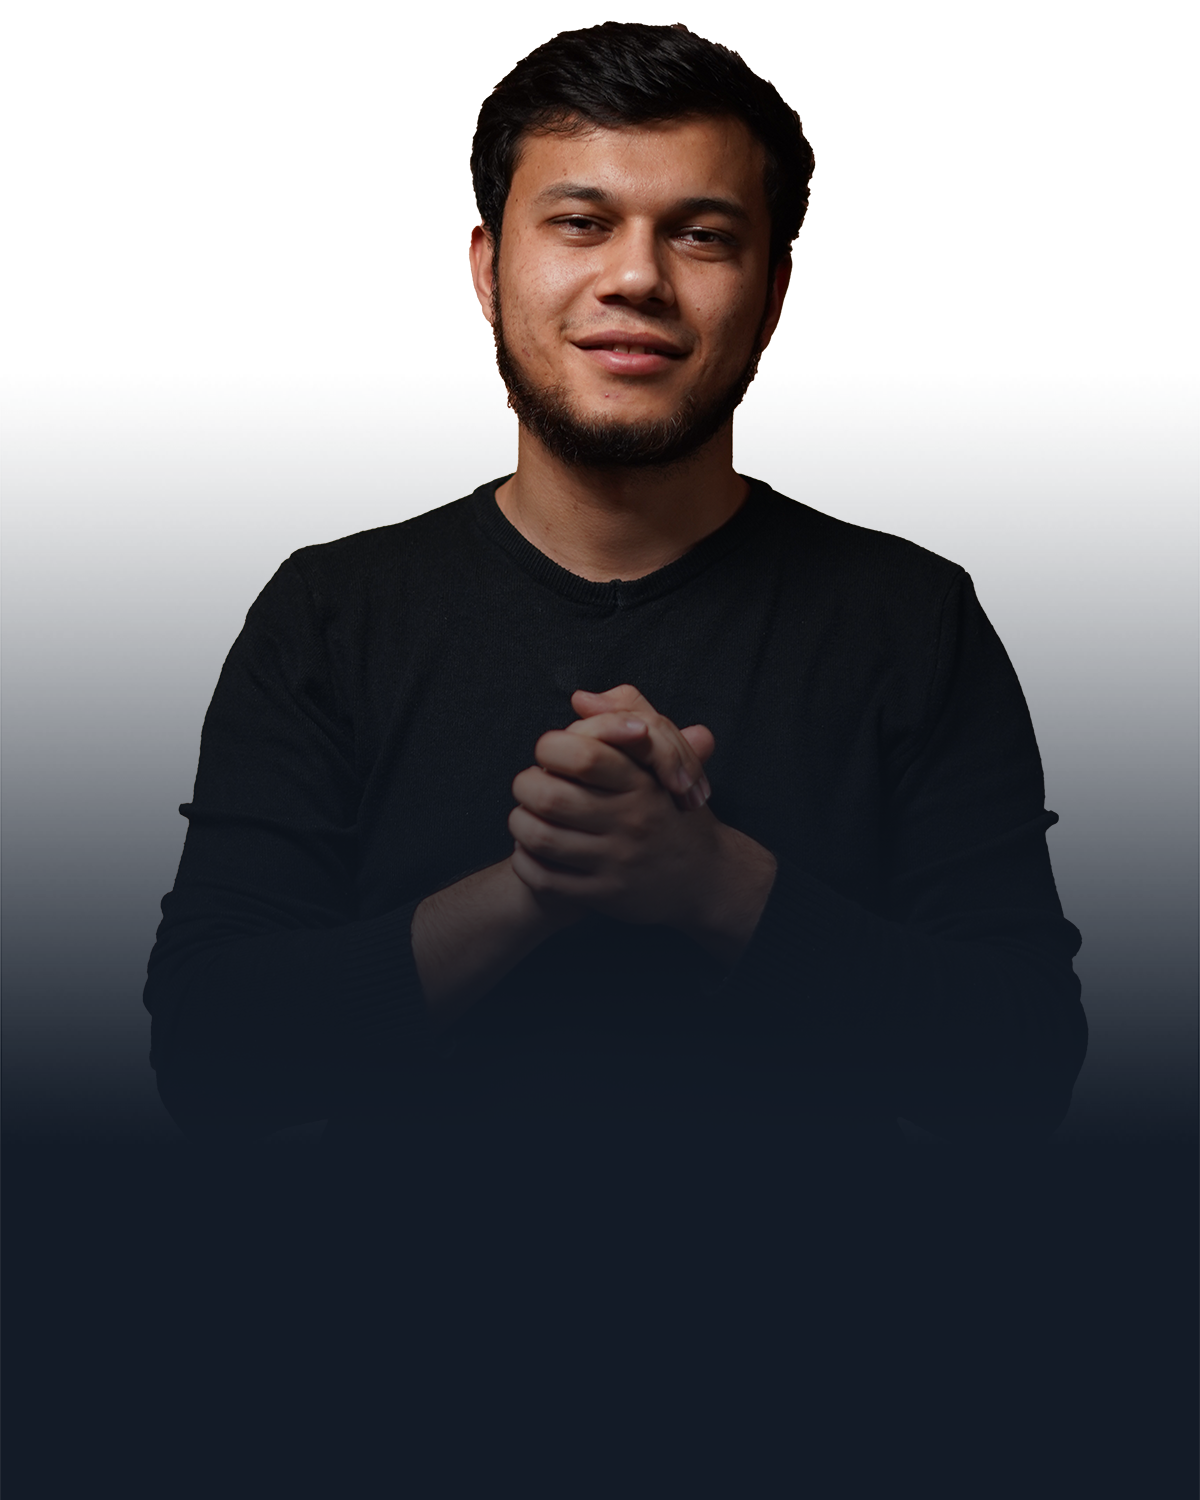
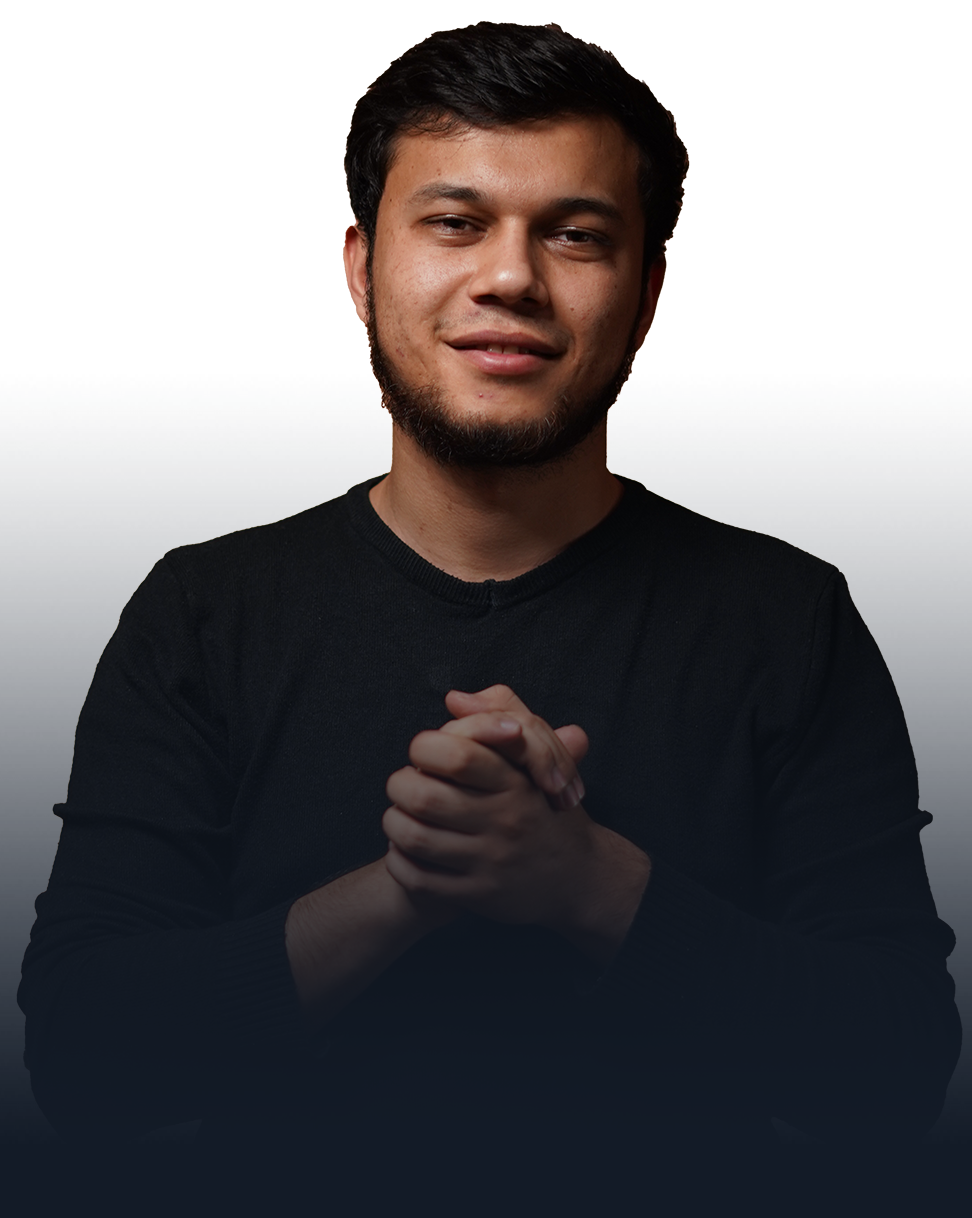
about

Changed region(s): [[0.0, 0.0, 1.0, 0.8736]]

diff --git a/src/components/About.jsx b/src/components/About.jsx
@@ -9,20 +9,26 @@ import Davenci from '../assets/DavenciResolver.png';
 
 const About = () => {
     return (
-        <section className='w-full border-t-2 border-t-slate-300' id='about'>
+        <section className='w-full border-t-2 border-t-slate-300 pb-4' id='about'>
             <main className='max-w-[1400px] pt-24 mt-5 w-[90%] mx-auto  flex flex-col-reverse justify-center md:flex-row min-h-screen'>
                 <div className="w-full md:w-1/2 text-white flex flex-col gap-5 h-[600px] justify-end">
-                    <div className='flex gap-4 flex-col about_links mt-10'>
-                        <div className='flex gap-3'>
+                    <h1 className='text-8xl font-bold'>Moviz.CG</h1>
 
-                            
+                    <div className='flex flex-col gap-3 '>
+                        <h3 className='text-4xl font-bold'><span className='text-green-500'>8+</span> yillik tajriba.</h3>
+                        <h3 className='font-bold text-3xl'><span className='text-green-500'>600+</span> Mijozlar</h3>
+                        <h3 className='text-3xl font-[700]'>Yo'ldoshboyev  Tolibjon Nurullayevich.</h3>
+                    </div>
+                    {/* skills */}
+                    <div className='flex gap-4  about_links mt-10'>
+                        <div className='flex gap-3'>
                             <div className="radial-progress text-green-500" style={{ "--value": 90 }} role="progressbar" title='Adobe Premiere pro 90%'>
                                 <img src={AdobeP} alt="AdobeP" className='h-10 w-10 rounded-full' />
                             </div>
                             <div className="radial-progress text-green-500" style={{ "--value": 60 }} role="progressbar" title='Adobe Photoshop 60%'>
-                                {/* <img src={PhotoshopIcon} alt="PhotoshopIcon" className='h-10 w-10 rounded-full' />
-                                 */}
-                                 90%
+                                <img src={PhotoshopIcon} alt="PhotoshopIcon" className='h-10 w-10 rounded-full' />
+                                
+                                {/* 90% */}
                             </div>
                             <div className="radial-progress text-blue-500" style={{ "--value": 50 }} role="progressbar" title='After Effect 50%'>
                                 <img src={AdobeAfterEffect} alt="AdobeAfterEffect" className='h-10 w-10 rounded-full' />
@@ -40,16 +46,9 @@ const About = () => {
                             </div>
                         </div>
                     </div>
-                    <div className='flex flex-col gap-3 '>
-                        <h3 className='text-4xl font-bold'>8+ yillik tajriba.</h3>
-                        <h3 className='font-bold text-3xl'>600+ Mijozlar</h3>
-                        <h3 className='text-3xl font-[700]'>Yo'ldoshboyev  Tolibjon Nurullayevich.</h3>
-                    </div>
-                    {/* skills */}
-
                 </div>
-                <div className="w-full md:w-1/2 flex items-center justify-center h-[600px]">
-                    <img src={avatar} alt="img" className='w-[200px] md:w-[490px] about-img' />
+                <div className="w-full md:w-1/2 flex items-end justify-center h-[600px]">
+                    <img src={avatar} alt="img" className='w-[200px] md:w-[400px] ' />
                 </div>
             </main>
         </section>

diff --git a/src/App.jsx b/src/App.jsx
@@ -2,6 +2,7 @@ import AllProducts from './components/AllProducts'
 import Hero from './components/Hero'
 import Navbar from './components/Navbar'
 import About from './components/About'
+import Footer from './components/Footer'
 export default function App() {
   return (
     <main className='bg-[#131b27] relative pt-3'>
@@ -9,6 +10,7 @@ export default function App() {
       <Hero />
       <AllProducts />
       <About />
+      <Footer />
     </main>
   )
 }

diff --git a/src/components/Footer.jsx b/src/components/Footer.jsx
@@ -1,0 +1,11 @@
+import React from 'react'
+
+const Footer = () => {
+  return (
+    <div className='max-w-[1400px] py-4 mt-5 w-[90%] mx-auto'>
+        <h4>Barcha huquqlar himoyalangan</h4>
+    </div>
+  )
+}
+
+export default Footer
